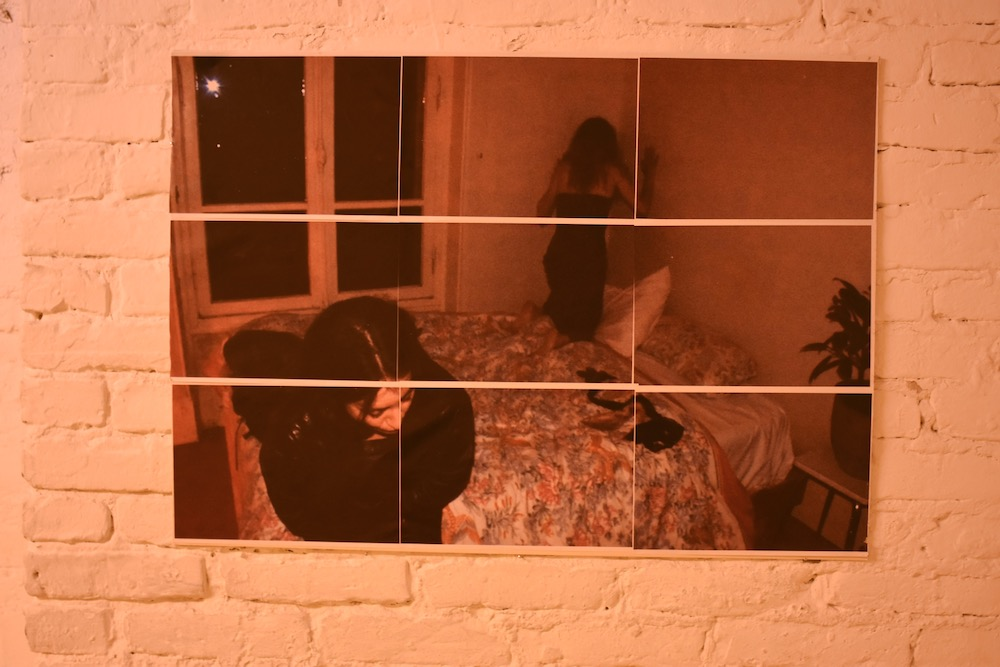
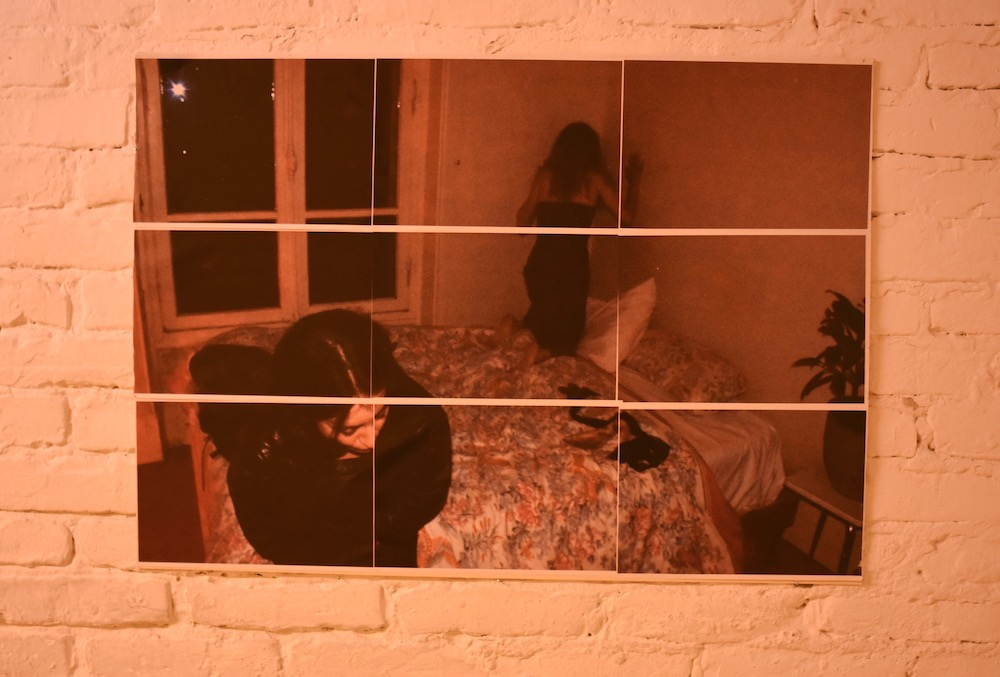
psychomancy updates

diff --git a/KeiraVera.html b/KeiraVera.html
@@ -10,18 +10,23 @@
   <main>
 	<div class="image-container">
 		<img src="images/keiraVera/flyer.JPG" alt="Keira J. Fox & Vera Karlsson | Benny Boys Fuck Palace" style="max-height: 400px">
-    <img src="images/keiraVera/2-DSC_1879.JPG" alt="Keira J. Fox & Vera Karlsson | Benny Boys Fuck Palace">
-    <img src="images/keiraVera/5-DSC_1839 2 copy.JPG" alt="Keira J. Fox & Vera Karlsson | Benny Boys Fuck Palace">
+    <img src="images/keiraVera/1-DSC_1874 2.jpg" alt="Keira J. Fox & Vera Karlsson | Benny Boys Fuck Palace">
+    <img src="images/keiraVera/1-Iphone-IMG_7741 2.jpg" alt="Keira J. Fox & Vera Karlsson | Benny Boys Fuck Palace">
+    <img src="images/keiraVera/2-Iphone-IMG_7782 2.jpeg" alt="Keira J. Fox & Vera Karlsson | Benny Boys Fuck Palace">
+    <img src="images/keiraVera/3-DSC_1808 2 copy.JPG" alt="Keira J. Fox & Vera Karlsson | Benny Boys Fuck Palace">
+		<img src="images/keiraVera/4-DSC_1816.JPG" alt="Keira J. Fox & Vera Karlsson | Benny Boys Fuck Palace">
+    <img src="images/keiraVera/5-DSC_1839 2 copy 2.jpg" alt="Keira J. Fox & Vera Karlsson | Benny Boys Fuck Palace">
+    <img src="images/keiraVera/5-DSC_1884 2.jpg" alt="Keira J. Fox & Vera Karlsson | Benny Boys Fuck Palace">
+    <img src="images/keiraVera/7-DSC_1840 2.JPG" alt="Keira J. Fox & Vera Karlsson | Benny Boys Fuck Palace">
+    <img src="images/keiraVera/8-DSC_1858.jpg" alt="Keira J. Fox & Vera Karlsson | Benny Boys Fuck Palace">
     <img src="images/keiraVera/8-DSC_1891 2.jpg" alt="Keira J. Fox & Vera Karlsson | Benny Boys Fuck Palace">
     <img src="images/keiraVera/9-DSC_1881.JPG" alt="Keira J. Fox & Vera Karlsson | Benny Boys Fuck Palace">
-		<img src="images/keiraVera/10-DSC_1886.JPG" alt="Keira J. Fox & Vera Karlsson | Benny Boys Fuck Palace">
-    <img src="images/keiraVera/11-DSC_1888.JPG" alt="Keira J. Fox & Vera Karlsson | Benny Boys Fuck Palace">
-    <img src="images/keiraVera/13-DSC_1893.JPG" alt="Keira J. Fox & Vera Karlsson | Benny Boys Fuck Palace">
-    <img src="images/keiraVera/14-DSC_1894.JPG" alt="Keira J. Fox & Vera Karlsson | Benny Boys Fuck Palace">
-    <img src="images/keiraVera/15-DSC_1900.JPG" alt="Keira J. Fox & Vera Karlsson | Benny Boys Fuck Palace">
-    <img src="images/keiraVera/16-DSC_1901.JPG" alt="Keira J. Fox & Vera Karlsson | Benny Boys Fuck Palace">
-    <img src="images/keiraVera/17-DSC_1902.JPG" alt="Keira J. Fox & Vera Karlsson | Benny Boys Fuck Palace">
-    <img src="images/keiraVera/18-DSC_1903.JPG" alt="Keira J. Fox & Vera Karlsson | Benny Boys Fuck Palace">
+    <img src="images/keiraVera/9-DSC_1883.JPG" alt="Keira J. Fox & Vera Karlsson | Benny Boys Fuck Palace">
+	<img src="images/keiraVera/10-DSC_1886.JPG" alt="Keira J. Fox & Vera Karlsson | Benny Boys Fuck Palace">
+	<img src="images/keiraVera/11-DSC_1888.JPG" alt="Keira J. Fox & Vera Karlsson | Benny Boys Fuck Palace">
+	<img src="images/keiraVera/12-DSC_1889 3.jpg" alt="Keira J. Fox & Vera Karlsson | Benny Boys Fuck Palace">
+	<img src="images/keiraVera/13-DSC_1893.JPG" alt="Keira J. Fox & Vera Karlsson | Benny Boys Fuck Palace">
+	<img src="images/keiraVera/14-DSC_1894.JPG" alt="Keira J. Fox & Vera Karlsson | Benny Boys Fuck Palace">
 	</div>
   </main>
   <footer>
